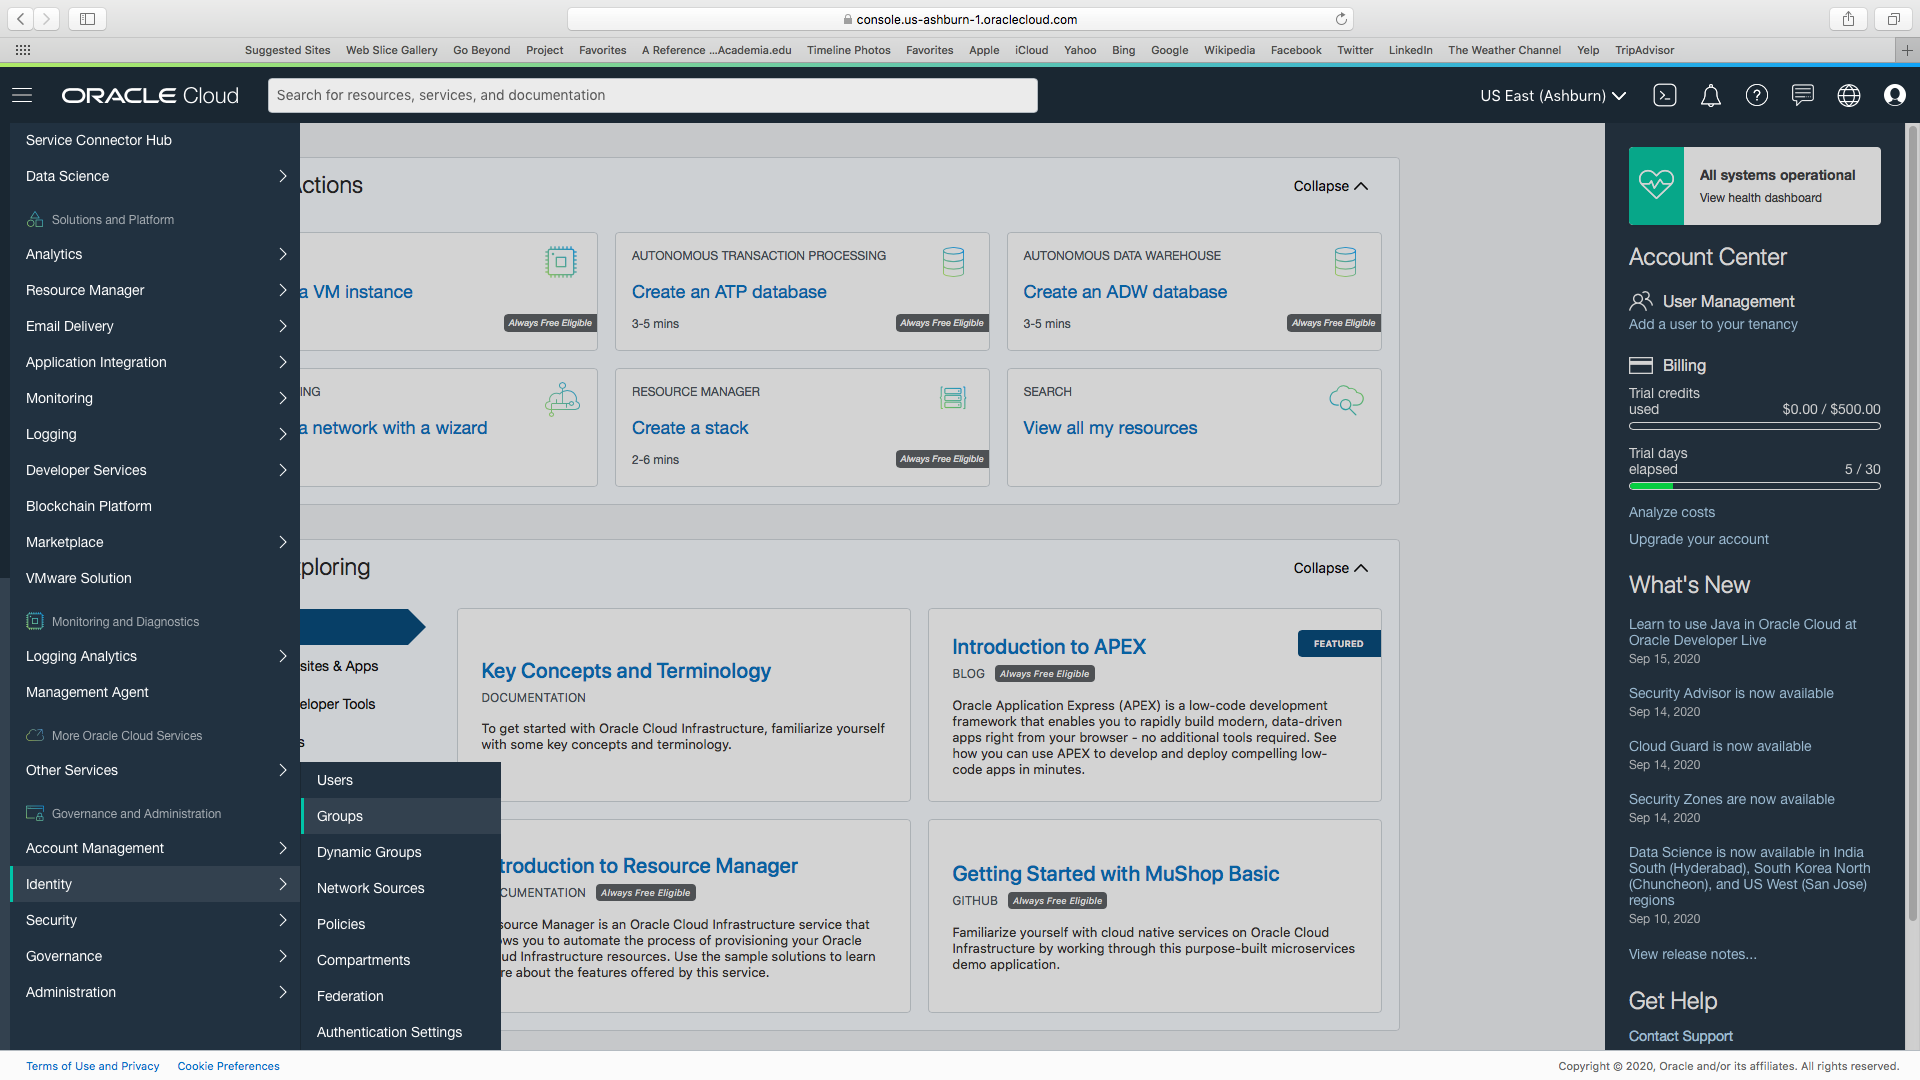
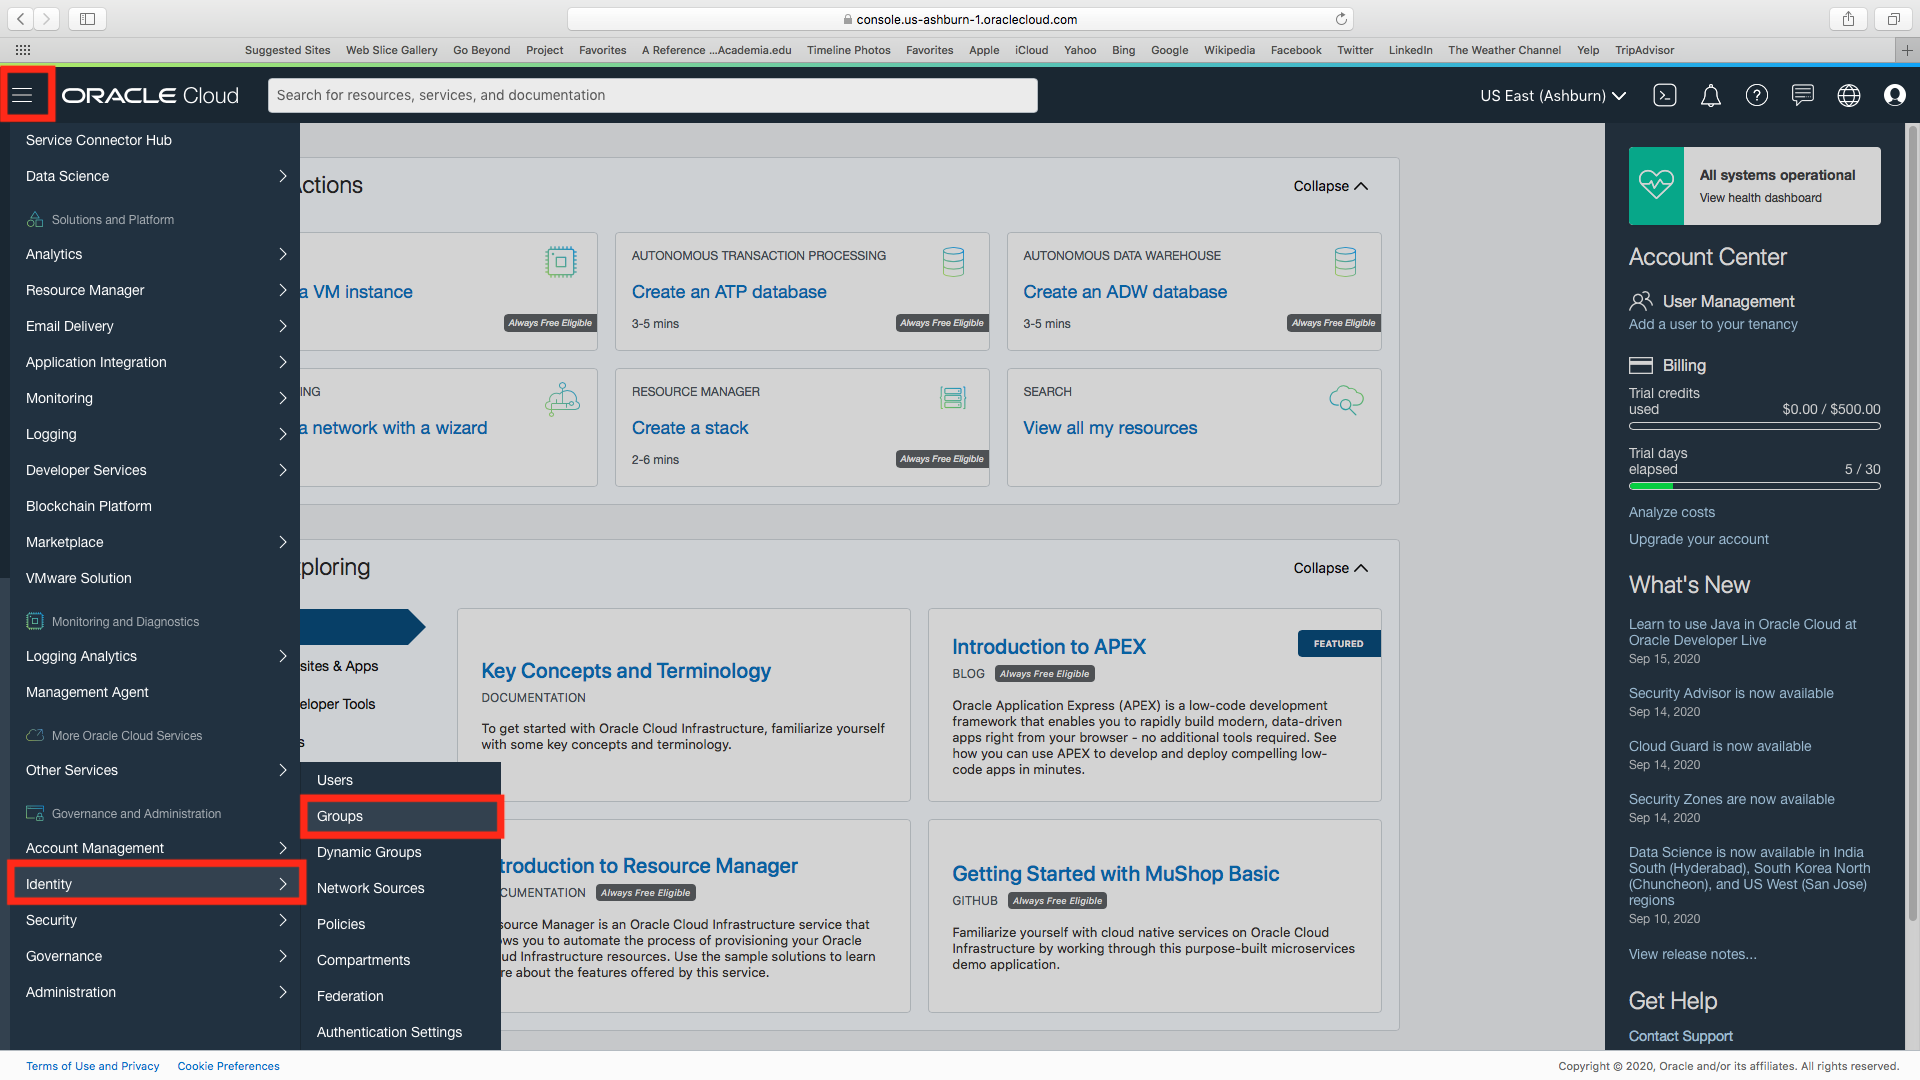
Modified Compartment Image

Changed region(s): [[0.0, 0.7333, 0.2812, 0.8556], [0.0, 0.0611, 0.0312, 0.1222]]

diff --git a/IAM Lab - Best Practices/LabGuide-IAM.md b/IAM Lab - Best Practices/LabGuide-IAM.md
@@ -61,7 +61,7 @@ A user's permissions to access services comes from the groups to which they belo
 
 We'll create a user, a group, and a security policy to understand the concept.
 
-1.	After signing in to the console, click on the hamburger menu on the top left. Click on Identity -> Group.
+1.	After signing in to the console, click on the three-line menu on the top left. Click on Identity -> Groups.
 
 ![](./images/group.png "")
 
@@ -73,19 +73,21 @@ We'll create a user, a group, and a security policy to understand the concept.
         2. Description: Enter a description (for example, “New group for oci users”).
         3. Click Submit.
 
-![](./images/7.png "")
+![](./images/creategroup.png "")
 
 4.	Your new group is displayed.
 
-![](./images/8.png "")
+![](./images/newgroup.png "")
 
-5.	Now, let’s create a security policy that gives your group permissions in your assigned compartment. For example, create a policy that gives permission to compartment Demo to members or group oci-group:
+5.	Now, let’s create a security policy that gives your group permissions in your assigned compartment. In this case, create a policy that gives permission to group oci-group provision Peoplesoft Cloud Manager in Compartment Demo:
 
-    a) On the Menu click Identity, and then click Policies.
+    a) Click on the three-line Menu button on the top left. Click on Identity -> Policies.
 
-    b) On the left side, select Demo compartment. 
+![](./images/policyn.png "")    
 
-![](./images/9.png "")
+    b) On the left side, navigate to **COMPARTMENT** and select root compartment. 
+
+![](./images/compartmentselect.png "")
 
 ```
 NOTE: You may need to click on the + sign next to your main compartment name to be able to see the sub-compartment Demo. If you do, and you still don't see the sub-compartment, Refresh your browser. Sometimes your browser caches the compartment information and does not update its internal cache.
